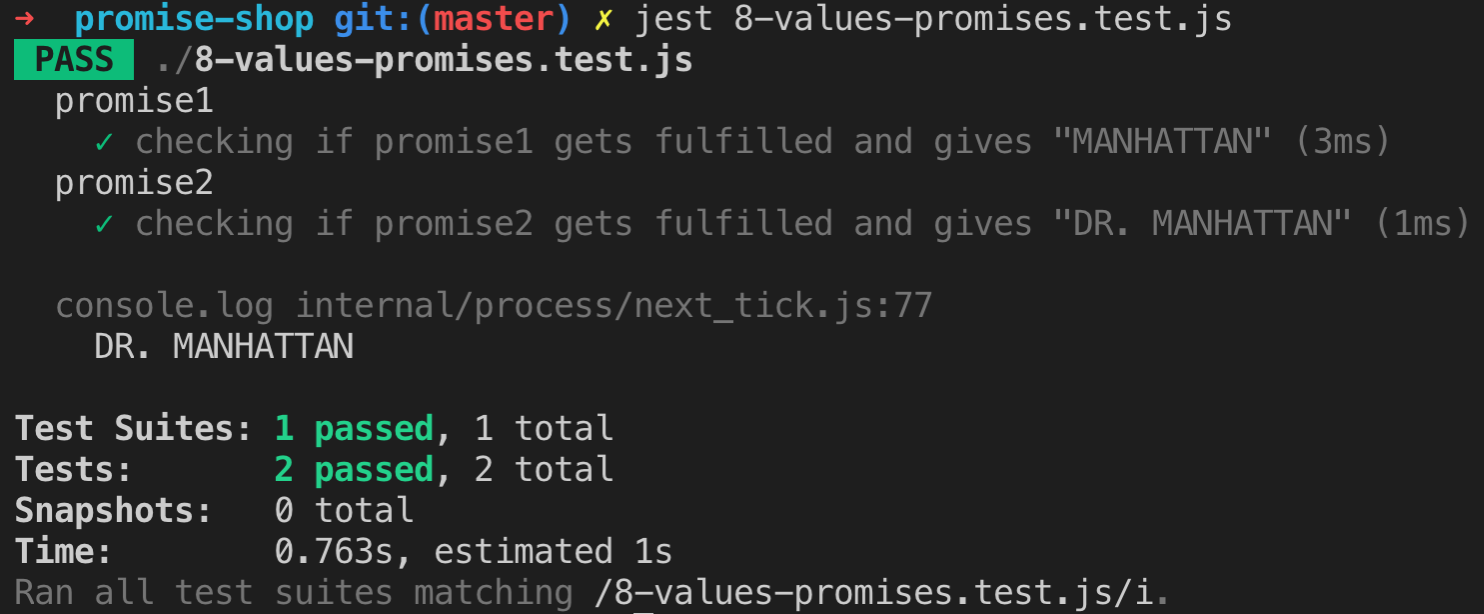
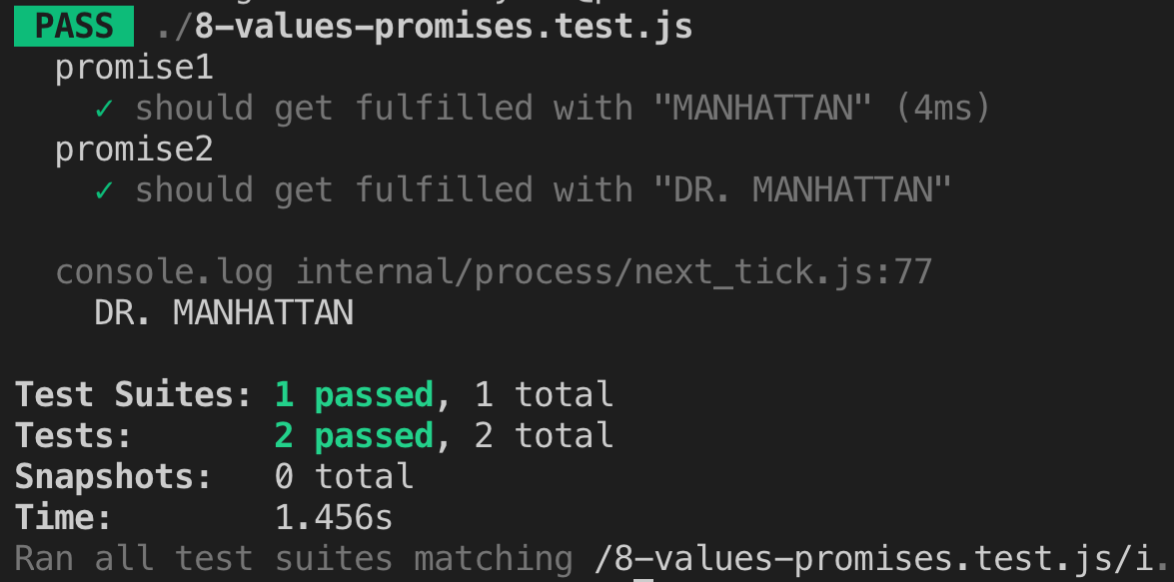
Tweaked promise test cases

Changed region(s): [[0.0, 0.0, 1.0, 0.4021], [0.0, 0.6495, 1.0, 1.0], [0.0307, 0.433, 0.7973, 0.5876]]

diff --git a/promise-shop/10-catch.test.js b/promise-shop/10-catch.test.js
@@ -1,19 +1,23 @@
-const prog= require('./10-catch');
+const catchTest= require('./10-catch');
 describe('catch', ()=> {
-    test('checking if promise gets caught', () => {
-        return prog.b().catch(e => {
-            return expect(e).toEqual('OH NOES')
+    it('should be able to catch error', () => {
+        return catchTest.promise.catch(errorPromise => {
+            return expect(errorPromise).toEqual('OH NOES')
         });
     });    
 });
-
-describe('alwaysThrow', ()=> {
-    test('checking if alwaysThrows() throws error', () => {
-        return expect(prog.alwaysThrows).toThrowError('OH NOES');
+describe('storeOutput array', ()=> {
+    it('should give output in order of print to console', () => {
+            return expect(catchTest.storeOutput).toEqual([1, 2, 3, 4, 5, 'OH NOES']);
+    });    
+});
+describe('alwaysThrow()', ()=> {
+    it('should throw error', () => {
+        return expect(catchTest.alwaysThrows).toThrowError('OH NOES');
     });
 });
-describe('iterate', ()=> {
-    test('checking if iterate() is working', () => {
-            return expect(prog.iterate(1)).toEqual(2);
+describe('iterate()', ()=> {
+    it('should increment passed number', () => {
+            return expect(catchTest.iterate(1)).toEqual(2);
     });    
 });

diff --git a/promise-shop/6-shortcuts.test.js b/promise-shop/6-shortcuts.test.js
@@ -1,13 +1,16 @@
-const prog= require('./6-shortcuts');
+const shortcuts= require('./6-shortcuts');
 describe('promiseResolved', () => {
-    test('checking if promiseResolved gets fulfilled and gives "FULFILLED"', () => {
-        expect.assertions(1);
-        return expect(prog.promiseResolved).resolves.toEqual('FULFILLED');
+    it('should get resolved with "FULFILLED"', () => {
+        return expect(shortcuts.promiseResolved).resolves.toEqual('FULFILLED');
     });
-});
+});    
 describe('promiseRejected', () => {
-    test('checking if promiseRejected gets rejected and gives "REJECTED!"', () => {
-        expect.assertions(1);
-        return expect(prog.promiseRejected).rejects.toEqual('REJECTED!');
+    it('should get rejected with "REJECTED!"', () => {
+        return expect(shortcuts.promiseRejected).rejects.toEqual('REJECTED!');
+    });
+    it ('should get caught', () => {
+        return shortcuts.promiseRejected.catch(errorMessage => {
+            return expect(errorMessage).toEqual('REJECTED!')
+        });
     });
 });

diff --git a/promise-shop/9-throw-error.test.js b/promise-shop/9-throw-error.test.js
@@ -1,11 +1,9 @@
-const prog= require('./9-throw-error');
+const throwError= require('./9-throw-error');
 describe('promise', () => {
-    test('checking if promise gets resolved and gives JSON', () => {
-       expect.assertions(1);;
-        return expect(prog('{"Name":"Shreya","Age":21}')).resolves.toEqual({"Name":"Shreya","Age":21});
+    it('should get resolved and gives JSON', () => {
+        return expect(throwError('{"Name":"Shreya","Age":21}')).resolves.toEqual({"Name":"Shreya","Age":21});
     });
-    test('checking if promise gets rejected and gives error message', () => {
-        expect.assertions(1);
-        return expect(prog({"Name":"Shreya"})).rejects.toEqual('Unexpected token o in JSON at position 1');
+    it('should get rejected and give error message', () => {
+        return expect(throwError({"Name":"Shreya"})).rejects.toEqual('Unexpected token o in JSON at position 1');
     });
 });

diff --git a/promise-shop/7-chain-promise.test.js b/promise-shop/7-chain-promise.test.js
@@ -1,14 +1,12 @@
-const prog= require('./7-chain-promise');
+const chainPromise= require('./7-chain-promise');
 describe('promise1', () => {
-    test('checking if promise1 gets fulfilled and gives "Fulfilled 1"', () => {
-        expect.assertions(1);
-        return expect(prog.promise1).resolves.toEqual('Fulfilled 1');
+    it('should get fulfilled with "Fulfilled 1"', () => {
+        return expect(chainPromise.promise1).resolves.toEqual('Fulfilled 1');
     });
 });
 describe('promise2', () => {
-    test('checking if promise2 gets fulfilled and gives "Fulfilled 1 Fulfilled 2"', () => {
-        expect.assertions(1);
-        return expect(prog.promise2).resolves.toEqual('Fulfilled 1 Fulfilled 2');
+    it('should get fulfilled with "Fulfilled 1 Fulfilled 2"', () => {
+        return expect(chainPromise.promise2).resolves.toEqual('Fulfilled 1 Fulfilled 2');
     });
 });
 

diff --git a/promise-shop/8-values-promises.test.js b/promise-shop/8-values-promises.test.js
@@ -1,13 +1,11 @@
-const prog= require('./8-values-promises');
+const valuesPromises= require('./8-values-promises');
 describe('promise1', () => {
-    test('checking if promise1 gets fulfilled and gives "MANHATTAN"', () => {
-        expect.assertions(1);
-        return expect(prog.promise1).resolves.toEqual('MANHATTAN');
+    it('should get fulfilled with "MANHATTAN"', () => {
+        return expect(valuesPromises.promise1).resolves.toEqual('MANHATTAN');
     });
 });
 describe('promise2', () => {
-    test('checking if promise2 gets fulfilled and gives "DR. MANHATTAN"', () => {
-        expect.assertions(1);
-        return expect(prog.promise2).resolves.toEqual('DR. MANHATTAN');
+    it('should get fulfilled with "DR. MANHATTAN"', () => {
+        return expect(valuesPromises.promise2).resolves.toEqual('DR. MANHATTAN');
     });
 });

diff --git a/promise-shop/10-catch.js b/promise-shop/10-catch.js
@@ -1,7 +1,9 @@
+var storeOutput=[];
 const alwaysThrows= () => {
     throw new Error('OH NOES');
 }
 const iterate= (arg) => {
+    storeOutput.push(arg);
     console.log(arg);
     return arg+1;
 }
@@ -16,8 +18,9 @@ const promise= Promise.resolve(iterate(1))
                     .then(iterate)
                     .then(iterate)
                     .then(iterate)
-                    .catch((e)=>console.log(e.message));
-const b=()=> { 
-    return promise;
-}
-module.exports={b, alwaysThrows, iterate, promise}
+                    .catch((promiseError)=> {
+                        storeOutput.push('OH NOES');
+                        console.log(promiseError.message)
+                    });
+
+module.exports={alwaysThrows, iterate, promise, storeOutput}

diff --git a/promise-shop/9-throw-error.js b/promise-shop/9-throw-error.js
@@ -2,16 +2,16 @@ const parsePromised= (jsonObj) => {
     return new Promise((resolve, reject) => {
         try {
             resolve(JSON.parse(jsonObj));
-        } catch(e) {
-            reject(e.message)
+        } catch(promiseError) {
+            reject(promiseError.message)
         }
     });
 }
 var promise;
-const b= (a) => { 
-    promise=parsePromised(a);
+const mainFunc= (jsonObject) => { 
+    promise=parsePromised(jsonObject);
     promise.then(console.log, console.log);
     return promise;
 }
-//b(process.argv[2]);
-module.exports=b;
+mainFunc(process.argv[2]);
+module.exports=mainFunc;

diff --git a/promise-shop/8-values-promises.js b/promise-shop/8-values-promises.js
@@ -7,6 +7,6 @@ const promise1=Promise.resolve('MANHATTAN')
 //FOR TESTING
 /*const promise1=Promise.resolve('MANHATTAN')
 const promise2=promise1.then(attachTitle)
-promise2.then(console.log);
+promise2.then(console.log);*/
 
-module.exports={promise1, promise2};*/
+module.exports={promise1, promise2};

diff --git a/promise-shop/6-shortcuts.js b/promise-shop/6-shortcuts.js
@@ -2,5 +2,5 @@ const promiseResolved=Promise.resolve('FULFILLED');
 promiseResolved.then(console.log);
 const promiseRejected=Promise.reject('REJECTED!');
 promiseRejected.catch(console.log);
-module.exports={promiseResolved,promiseRejected};
+module.exports={ promiseResolved, promiseRejected };
 

diff --git a/promise-shop/7-chain-promise.js b/promise-shop/7-chain-promise.js
@@ -1,10 +1,11 @@
+//FOR TESTING
 /*const first=()=>{
     return Promise.resolve('Fulfilled 1');
 }
 const second=(arg)=>{
     return arg+' Fulfilled 2';
-}
-*/
+}*/
+
 promise1= first();
 promise2=promise1.then((arg) => second(arg));
 promise2.then(console.log);
